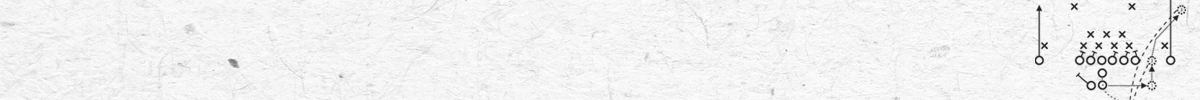
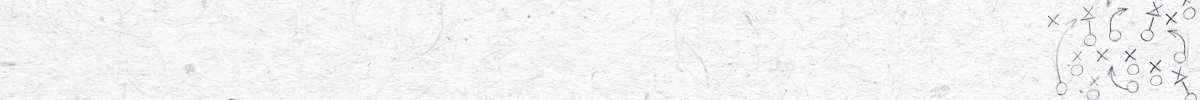
Update Caption Image

diff --git a/public/styles/KDL-Light.css b/public/styles/KDL-Light.css
@@ -2253,8 +2253,8 @@ a:active {
 caption,
 #commissioner_setup table.two_column_layout th {
   font-size: 1.375rem;
-  background: rgba(0, 0, 0, 0) url(https://knuckleheads.netlify.app/images/captions/Caption-Light.png); /*none*/
-  background-position: center left; /*added*/
+  background: rgba(0, 0, 0, 0) url(https://knuckleheads.netlify.app/images/captions/Caption-Light-Plays.png); /*none*/
+  background-position: center right; /*added*/
   padding: 0.5rem;
   text-align: left;
   line-height: 100%;
